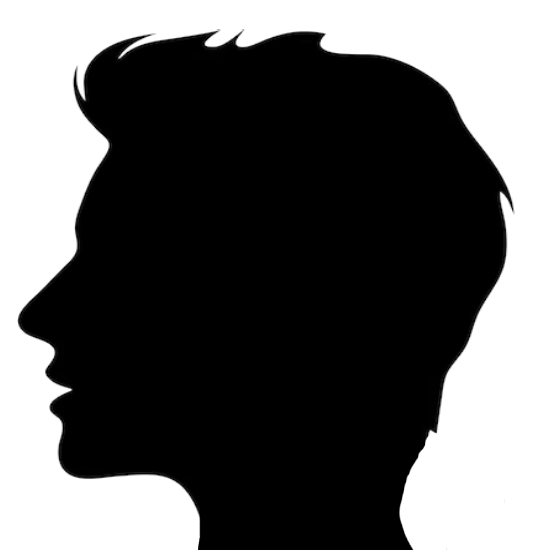
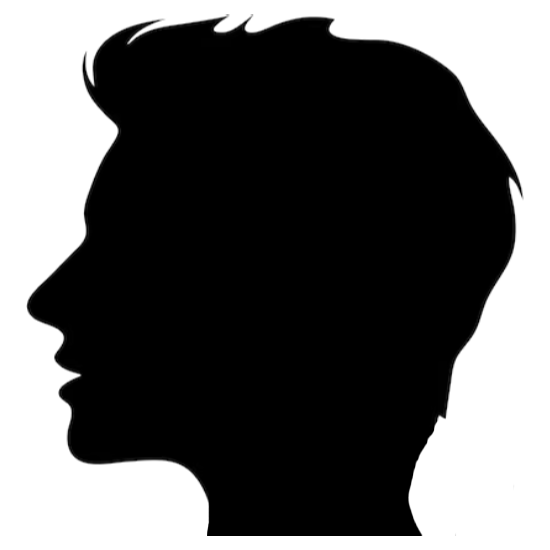
stroke to skoker; gameOver's press R

diff --git a/js/main.js b/js/main.js
@@ -15,8 +15,8 @@ let gameOverFlag = false;
 // physics init
 let initialVelocityX = 0;
 let velocityX = initialVelocityX;
-let inialShiftSkokerX = boardWidth/120;
-let shiftSkokerX = inialShiftSkokerX;
+// let inialShiftSkokerX = boardWidth/120;
+let shiftSkokerX = boardWidth/120;
 let initialVelocityY = -boardWidth/71; // 60 => -10
 let velocityY = initialVelocityX;
 let initialGravity = boardWidth/1500; // 1500 => 0.4
@@ -78,9 +78,9 @@ function init() {
 
   // load images
   skokerRightImage = new Image();
-  skokerRightImage.src = './images/head-right.png';
+  skokerRightImage.src = './images/head-right-stroke.png';
   skokerLeftImage = new Image();
-  skokerLeftImage.src = './images/head-left.png';
+  skokerLeftImage.src = './images/head-left-stroke.png';
   //
   skoker.image = skokerRightImage;
   skoker.x = skokerX;
@@ -177,10 +177,10 @@ function update() {
 
 function moveSkoker(event) {
   if (event.code == 'ArrowRight' || event.code == 'KeyD') {
-    velocityX = inialShiftSkokerX;
+    velocityX = shiftSkokerX;
     skoker.image = skokerRightImage;
   } else if (event.code == 'ArrowLeft' || event.code == 'KeyA') {
-    velocityX = -inialShiftSkokerX;
+    velocityX = -shiftSkokerX;
     skoker.image = skokerLeftImage;
   } else if (event.code == 'KeyR') {
     if (gameOverFlag) init();
@@ -298,13 +298,13 @@ function detectColor(skoker, platform) {
       coeffShiftSkokerX -= 1;
     }
     // console.log(coeffShiftSkokerX);
-    velocityX = inialShiftSkokerX * coeffShiftSkokerX;
+    velocityX = shiftSkokerX * coeffShiftSkokerX;
     // console.log(velocityX);
     // console.log('');
 
     platform.image.src = './images/clouds/transparent_1x1.png';
     platform.collision = false;
-    
+
   } else if (platform.color === 'green') {
     
   } 
@@ -319,8 +319,15 @@ function gameOver() {
   gradient.addColorStop("0.5","blue");
   gradient.addColorStop("1.0","red");
 
+  let gameOverSize = boardWidth/6.5;
   context.fillStyle = gradient;
-  context.font = `bold ${boardWidth/8}px Sans-Serif`;
+  context.font = `bold ${gameOverSize}px Sans-Serif`;
   context.textAlign = 'center';
   context.fillText('Game Over', boardWidth/2, boardWidth/2);
+
+  context.fillStyle = 'black';
+  context.font = `bold ${boardWidth/15}px Sans-Serif`;
+  context.textAlign = 'center';
+  context.fillText('(press R to restart)', boardWidth/2,
+    boardWidth/2 + gameOverSize*0.98);
 }
